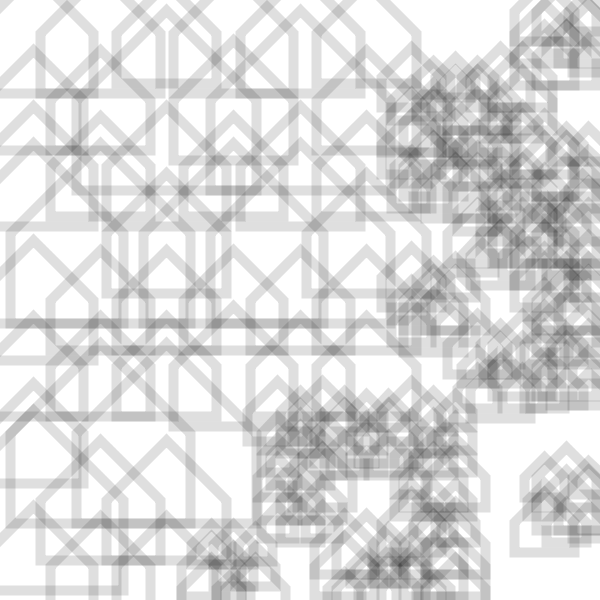
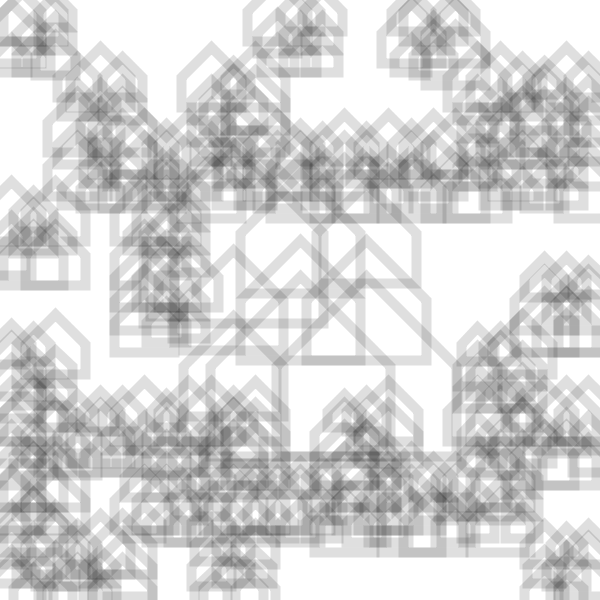
04 (03 cleanup)

diff --git a/2019/sketch_191004a/elementos.py b/2019/sketch_191004a/elementos.py
@@ -1,0 +1,59 @@
+# -*- encoding: utf-8 -*-
+
+def casinha(x, y, tamanho):
+    """ Casinha na posição x, y com largura e altura 'tamanho' """
+    metade = tamanho / 2
+    pushMatrix()  # preserva o sistema de coordenadas atual
+    translate(x, y)  # translada a origem do sistema de coordenadas
+    beginShape()  # começa a desenhar a forma, inicia um polígono
+    vertex(0, -metade)
+    vertex(-metade, 0)
+    vertex(-metade, metade)
+    vertex(metade, metade)
+    vertex(metade, 0)
+    endShape(CLOSE)  # encerra a forma a fechando no primeiro vértice
+    popMatrix() # retorna o sistema de coordenadas anterior
+    
+def estrela(x_centro, y_centro, num_pontas, raio_a, raio_b):
+    """
+    Desenha uma estrela com np pontas
+    raio a e raio b são os raios internos e das pontas
+    """
+    n = num_pontas * 2 # dobro de pontos que as pontas
+    inc = radians(360. / n) # ângulo de eincremento entre os pontos
+    beginShape() # começa a desenhar a forma
+    ang = 0 # começando com o ângulo 0
+    while ang < TWO_PI:
+        x = x_centro + sin(ang) * raio_a
+        y = y_centro + cos(ang) * raio_a
+        vertex(x, y)
+        ang += inc
+        x = x_centro + sin(ang) * raio_b
+        y = y_centro + cos(ang) * raio_b
+        vertex(x, y)
+        ang += inc
+    endShape(CLOSE) # encerra uma forma fechada
+    
+    
+def olho(x, y, largura, cor=color(100)):
+    """ Olho na posição x, y com largura e cor """
+    pushStyle() # preserva os atributos gráficos atuais
+    noStroke()
+    fill(255)
+    ellipse(x, y, largura, largura * .45)
+    fill(cor)
+    circle(x, y, largura * .4)
+    fill(0)
+    circle(x, y, largura * .1)
+    popStyle() # retorna os atributos gráficos anteriores
+    
+    
+def grade_s(xo, yo, n, tam_total):
+    tam_celula = tam_total / n
+    desloc = (tam_celula - tam_total) / 2.
+    for i in range(n):
+        x = xo + desloc + tam_celula * i
+        for j in range(n):
+            y =  yo + desloc + tam_celula * j
+            rectMode(CENTER)
+            square(x, y, tam_celula * .6)

diff --git a/README.md b/README.md
@@ -18,6 +18,19 @@ You may also support my artistic work, open teaching resources and research with
 
 ## 2019
 
+
+-
+
+![sketch_191004a](2019/sketch_191004a/sketch_191004a.png)
+
+[sketch_191004a](https://github.com/villares/sketch-a-day/tree/master/2019/sketch_191004a) [[Py.Processing](https://villares.github.io/como-instalar-o-processing-modo-python/index-EN)]
+
+--
+
+![sketch_191003a](2019/sketch_191003a/sketch_191003a.png)
+
+[sketch_191003a](https://github.com/villares/sketch-a-day/tree/master/2019/sketch_191003a) [[Py.Processing](https://villares.github.io/como-instalar-o-processing-modo-python/index-EN)]
+
 --
 
 ![sketch_191002a](2019/sketch_191002a/sketch_191002a.png)
